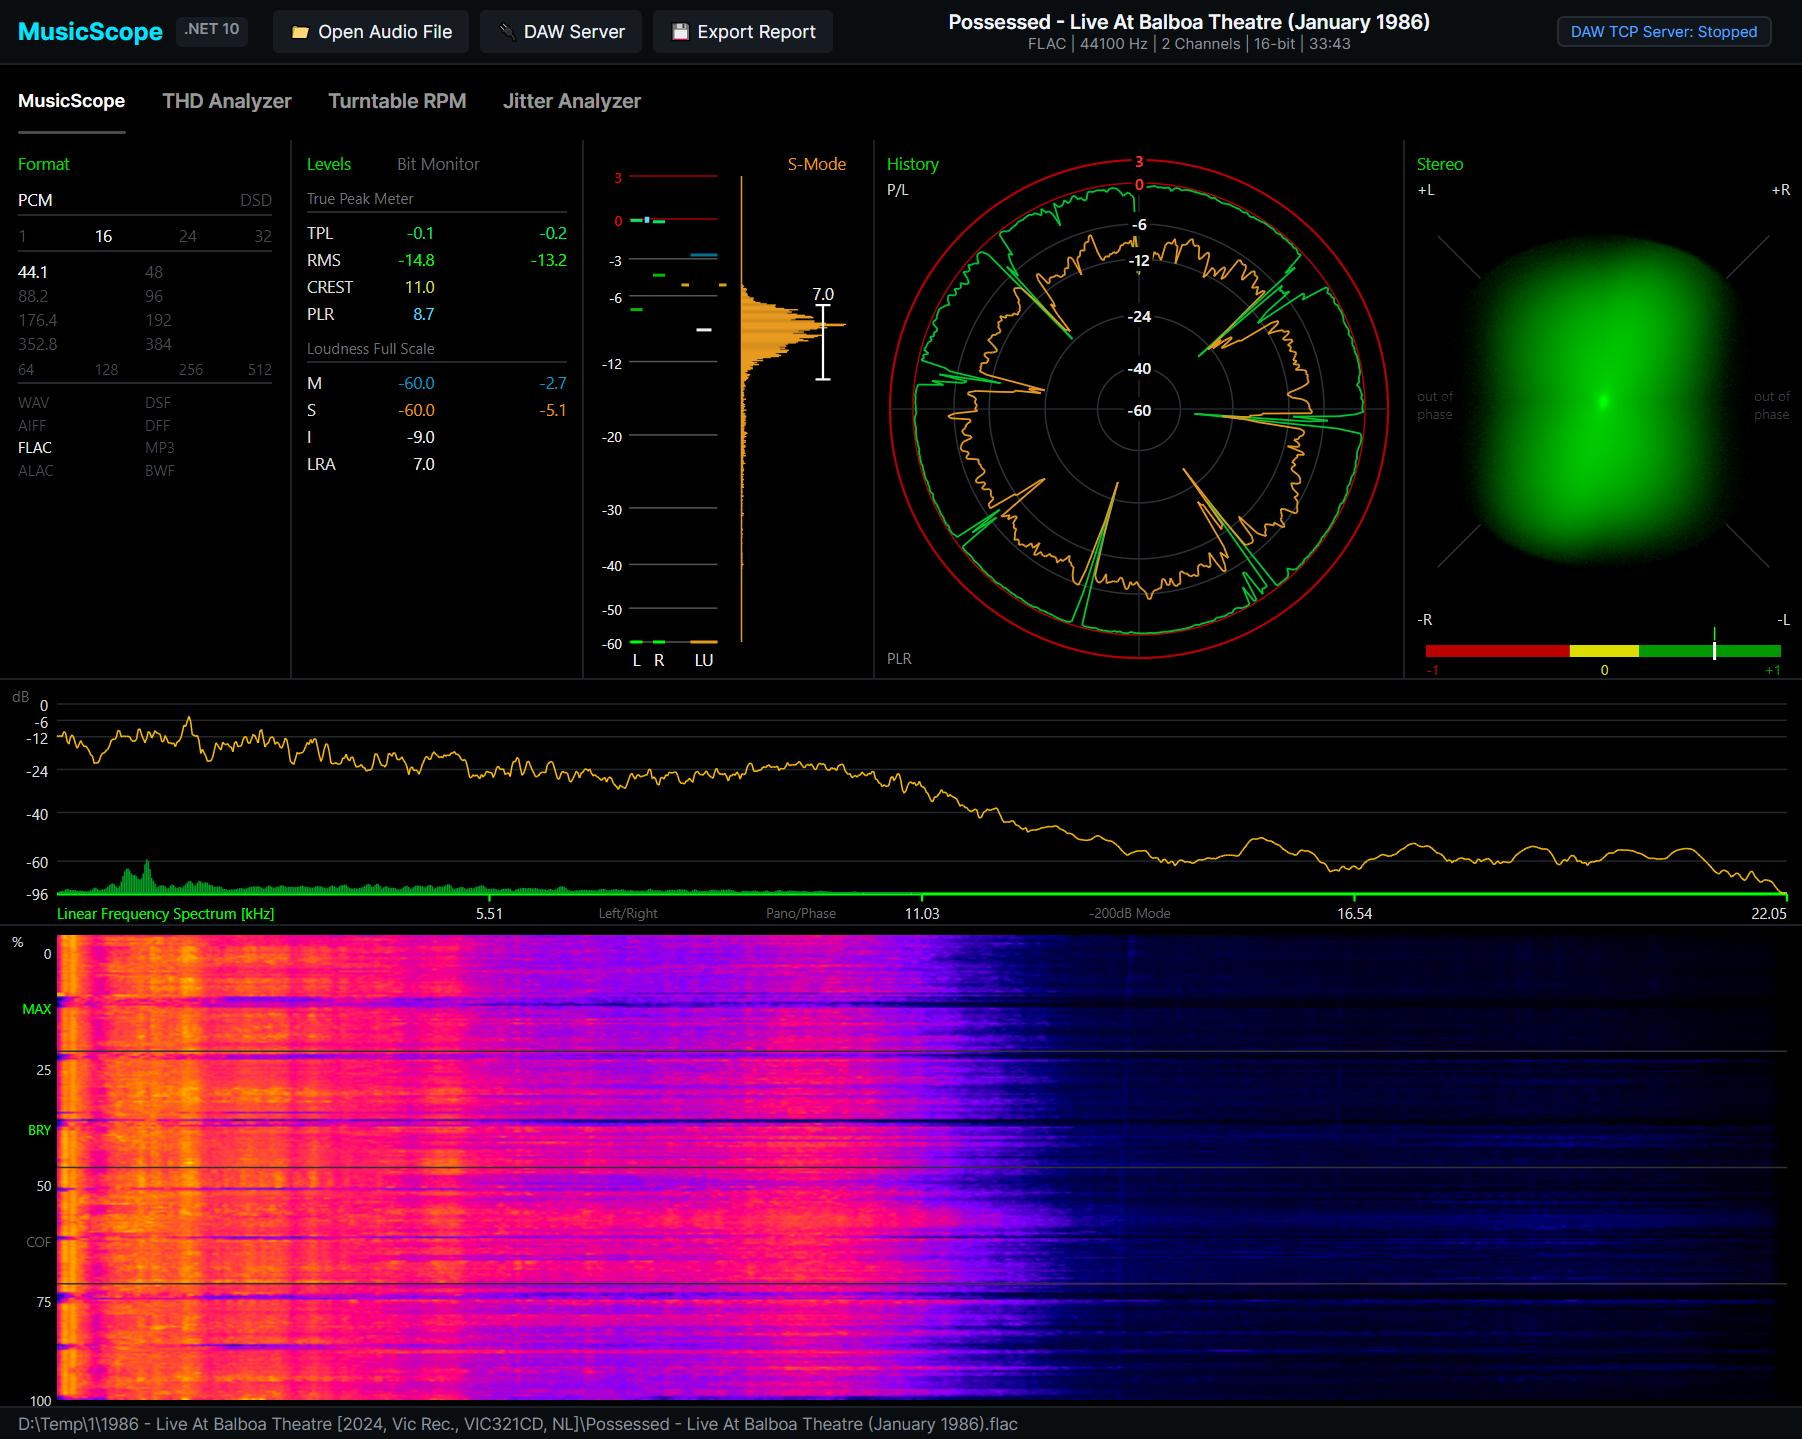
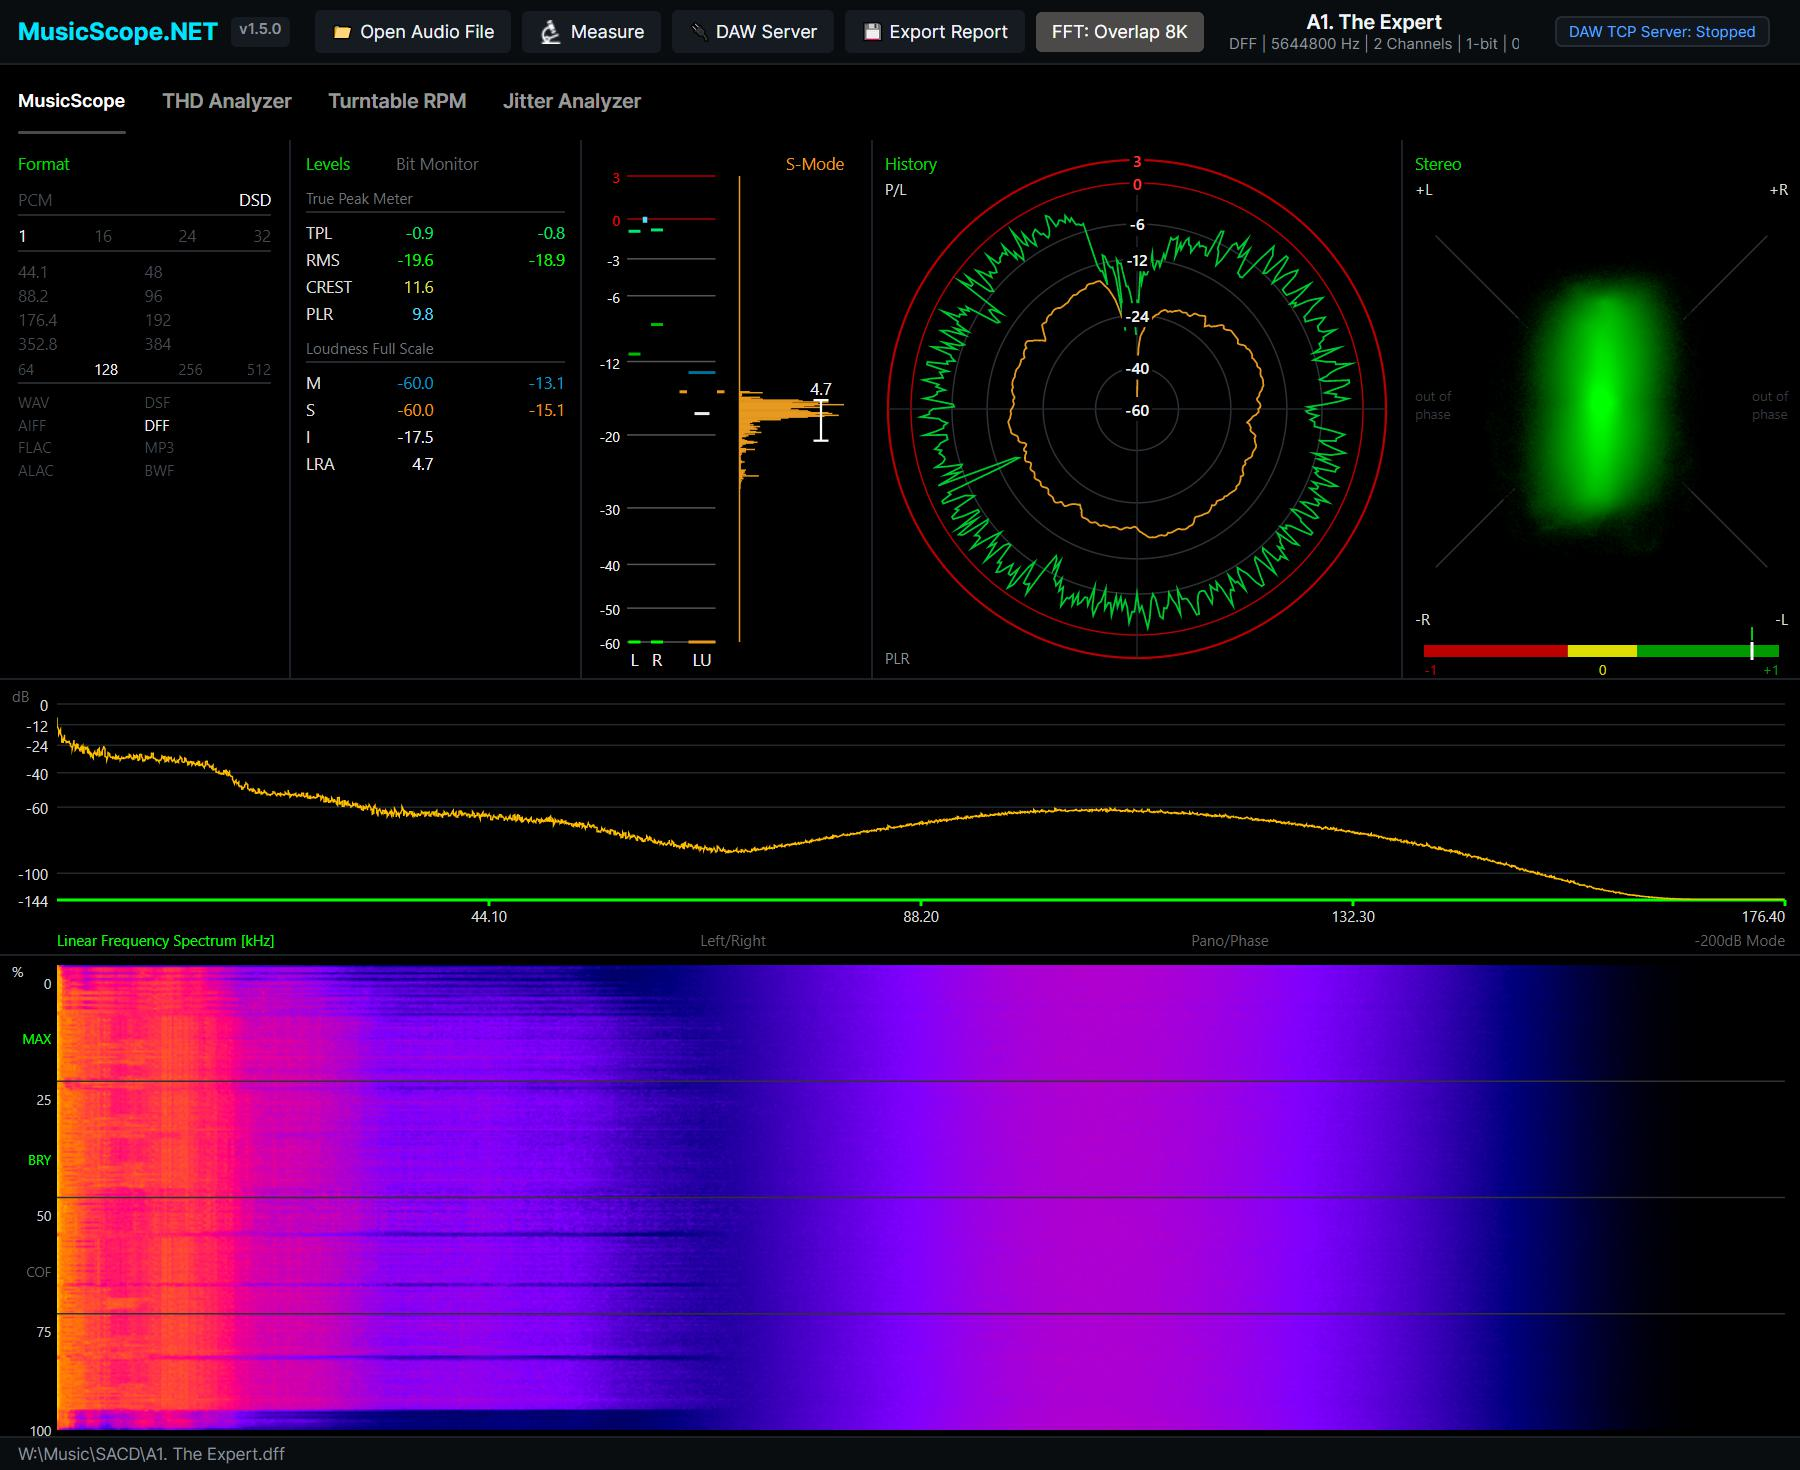
chore(release): bump application version to 1.5.0 and update screenshot

diff --git a/tests/MusicScope.Desktop.Tests/HeaderTitleAndVersionTests.cs b/tests/MusicScope.Desktop.Tests/HeaderTitleAndVersionTests.cs
@@ -17,7 +17,7 @@ public class HeaderTitleAndVersionTests
         var vm = new MainViewModel();
         Assert.NotNull(vm.AppVersion);
         Assert.StartsWith("v1.", vm.AppVersion);
-        Assert.Equal("v1.4.0", vm.AppVersion);
+        Assert.Equal("v1.5.0", vm.AppVersion);
     }
 
     [AvaloniaFact]
@@ -48,7 +48,7 @@ public class HeaderTitleAndVersionTests
             // Verify version badge displays current version
             var versionTagBlock = textBlocks.FirstOrDefault(tb => tb.Text == vm.AppVersion);
             Assert.NotNull(versionTagBlock);
-            Assert.Equal("v1.4.0", versionTagBlock.Text);
+            Assert.Equal("v1.5.0", versionTagBlock.Text);
         }
         finally
         {

diff --git a/src/MusicScope.Desktop/ViewModels/MainViewModel.cs b/src/MusicScope.Desktop/ViewModels/MainViewModel.cs
@@ -585,6 +585,6 @@ public partial class MainViewModel : ViewModelBase
         {
             return $"v{v.Major}.{v.Minor}.{v.Build}";
         }
-        return "v1.4.0";
+        return "v1.5.0";
     }
 }
